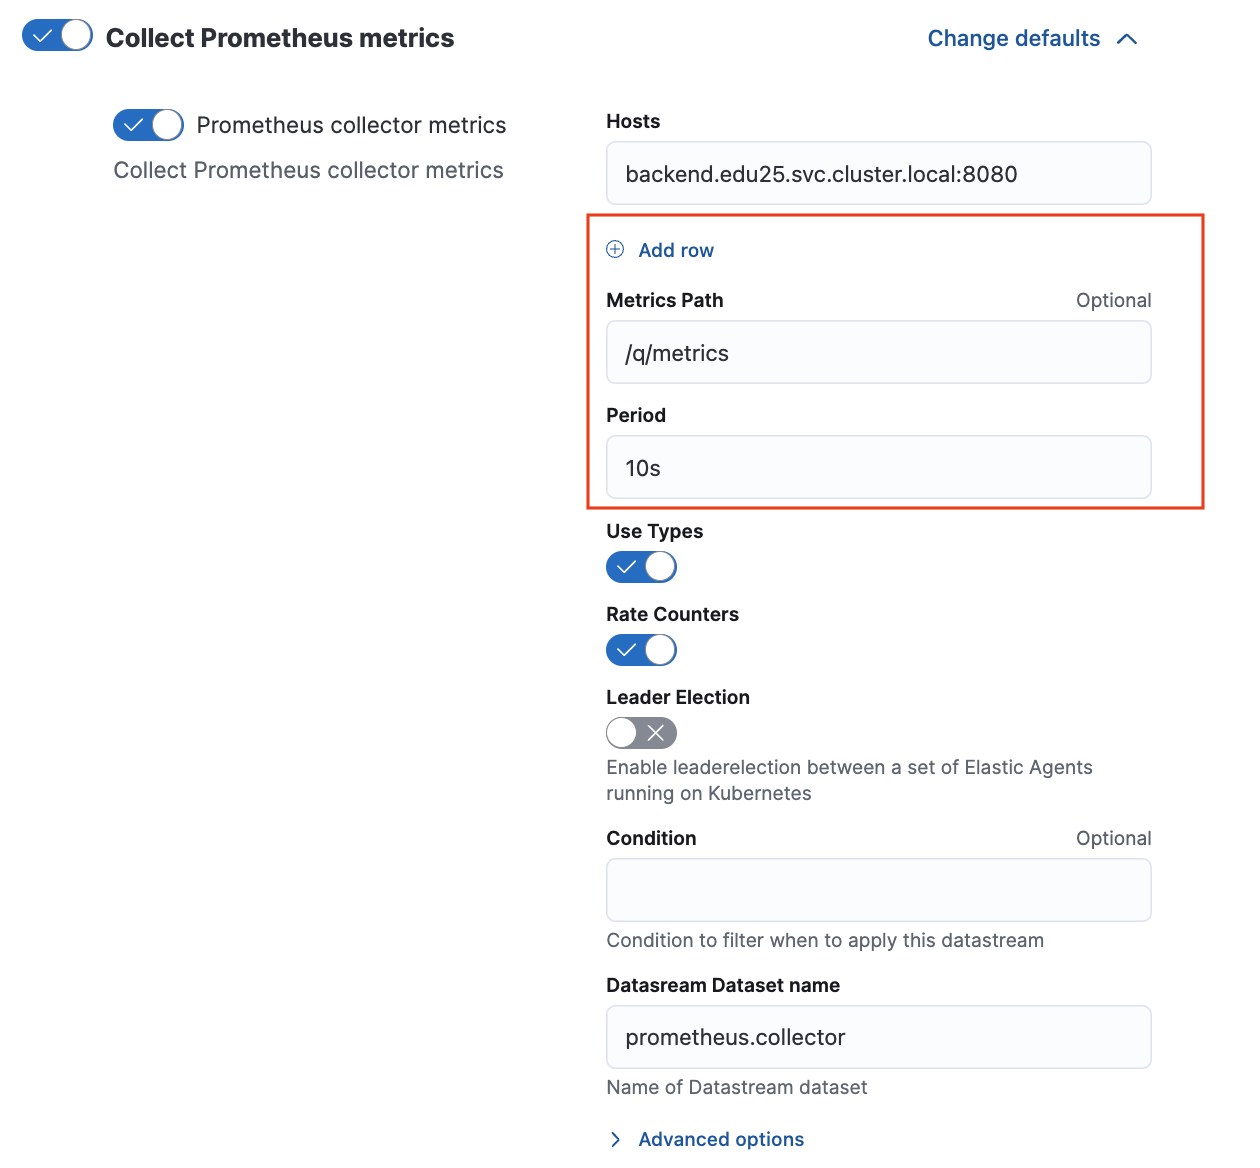
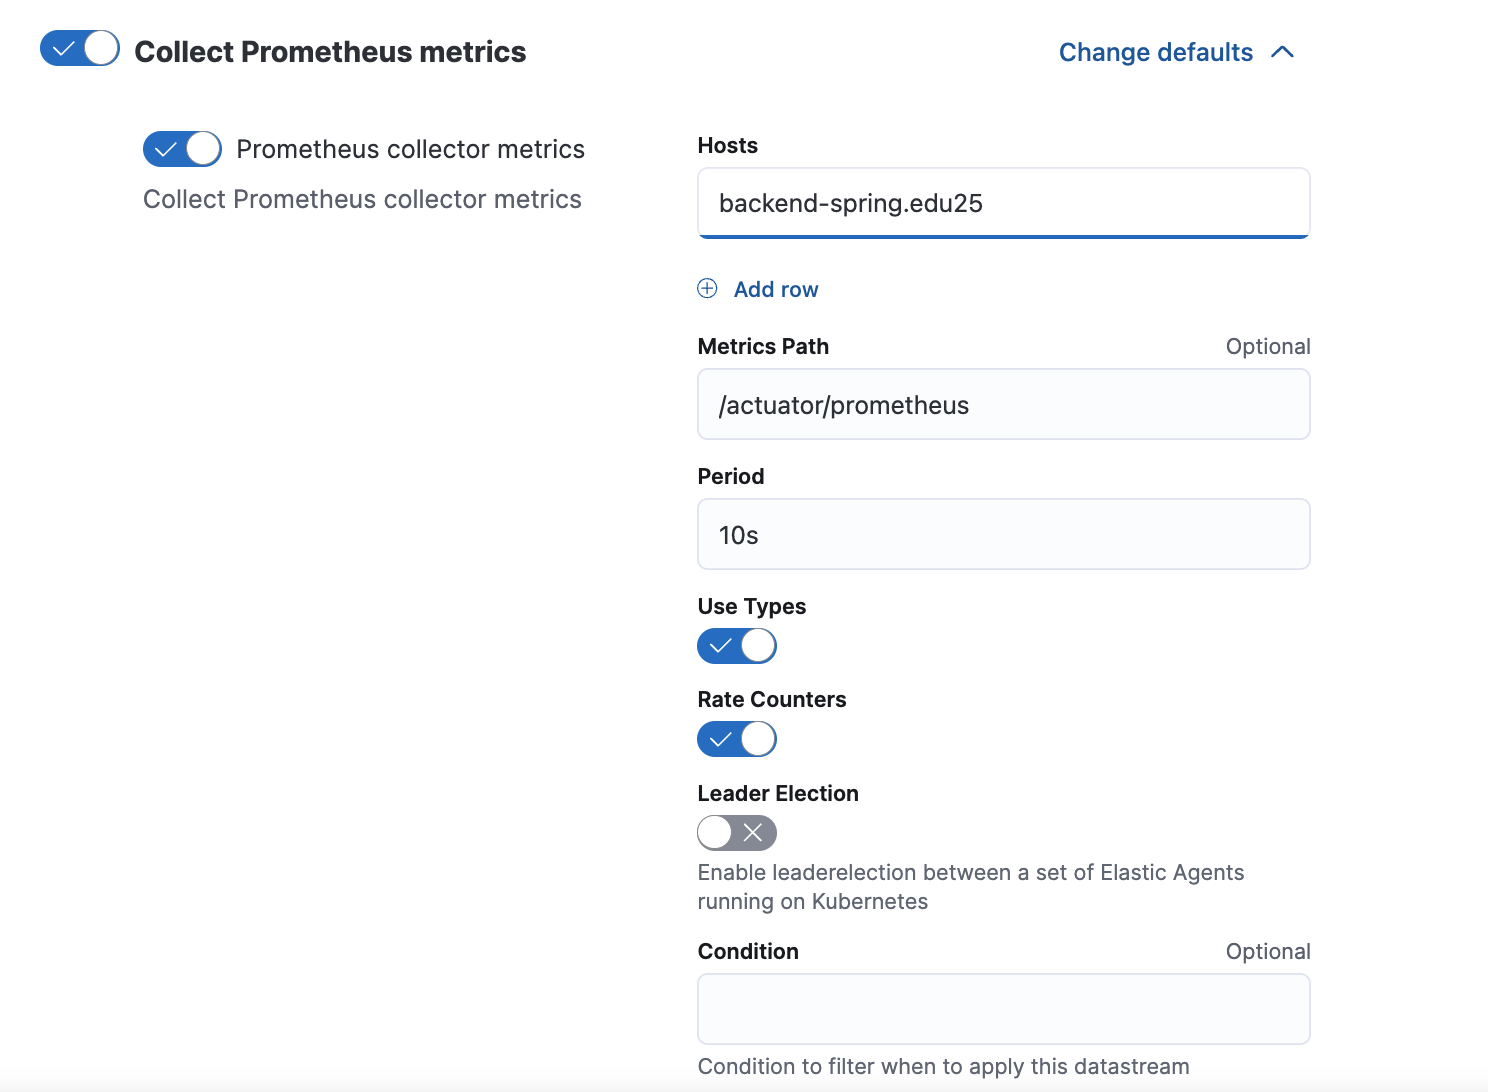
minor update

diff --git a/chapter4.md b/chapter4.md
@@ -1297,8 +1297,8 @@ backend-springboot           ClusterIP   172.30.37.27     <none>        80/TCP  
 <br/>
 
 다른 Prometheus integration과 구분하기 위해 name과 namespace 설정  
-- host : backend-springboot.edu25.svc.cluster.local  
-- 예: <서비스 이름>.<namespace>.svc.cluster.local.<포트>    
+- host : backend-springboot.edu25 
+- 예: <서비스 이름>.<namespace>  
 
 <br/> 
 
@@ -1307,8 +1307,8 @@ backend-springboot           ClusterIP   172.30.37.27     <none>        80/TCP  
 <br/>
 
 Metrics Path  를 설정한다.
-- /q/metrics : Quarkus
 - /actuator/prometheus : SpringBoot + Micrometer  
+- /q/metrics : Quarkus   
 
 
 <img src="./assets/prometheus_integration_5.png" style="width: 80%; height: auto;"/>  
@@ -2351,15 +2351,24 @@ elastic 에서 Fleet 으로 이동하면 정상적으로 `solution_integration` 
 
 <br/>
 
-Add Integration을 클릭하고 prometheus를  선택하고 설정을 한다.
+Add Integration을 클릭하고 prometheus를  선택하고 설정을 한다.   
+
+<br/>
+
+이후 설정은 앞의 Prometheus Integration 과정을 따라서 진행을 한다.  
 
 <img src="./assets/elastic_cloud_9.png" style="width: 80%; height: auto;"/>
 
 <br/>
 
-discover 에서 확인한다.  (data view 생성)  
+설정이 완료가 되면 discover 에서 data view를 prometheus-backend 라는 이름으로 생성하고 데이터를 조회해 본다. 
 
 <img src="./assets/elastic_cloud_10.png" style="width: 80%; height: auto;"/>
+
+
+<br/>
+
+Export 했던 SpringBoot overview 대쉬보드를 import 하여 대쉬보드에서 데이터가 잘 보이는지 확인한다.  
 
 <br/> 
 
